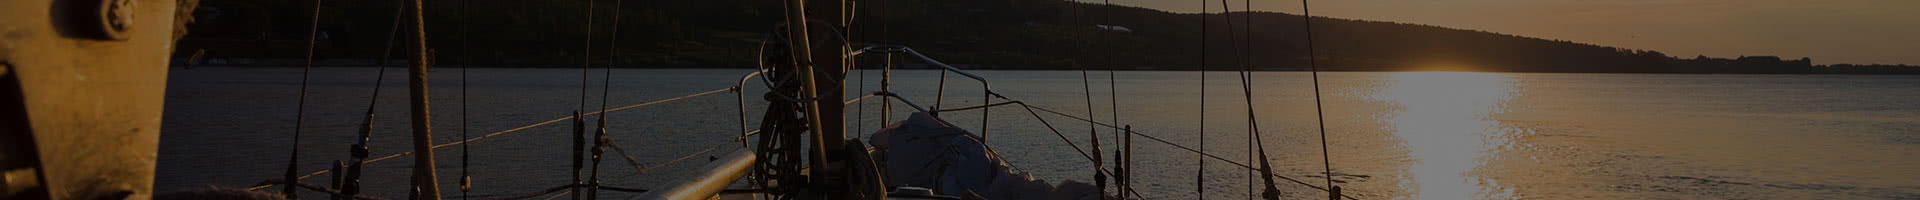
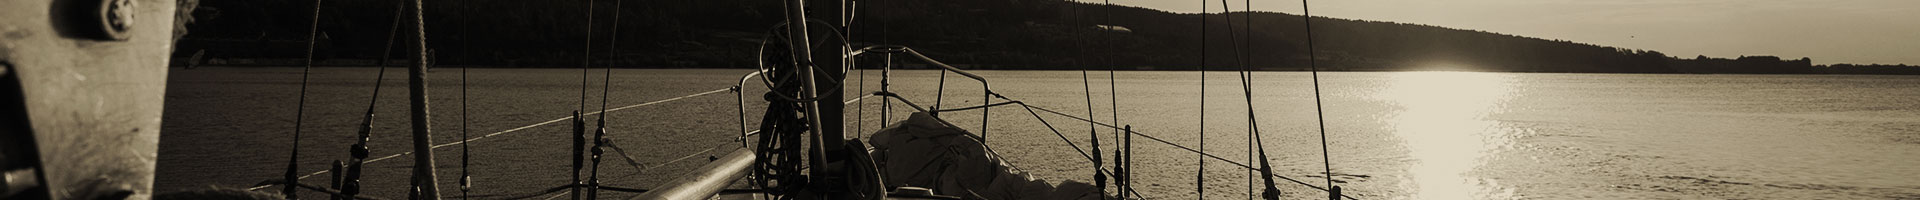
Replaced heading images on inner pages with newly designed images

diff --git a/site/styles/content.less b/site/styles/content.less
@@ -67,16 +67,18 @@ section.home div.copyright.light a {
 h1.styled {
 	padding: 3.5rem;
 	margin: 0;
-	color: @color_active_link;
 	text-align: center;
 	text-transform: uppercase;
+	font-size: 2.5rem;
+	color: @color_title_text;
 
 	background-position: center;
 	background-repeat: no-repeat;
 
 	&.profile {
 		background-color: @color_footer;
-		font-size: 2.5rem;
+		color: @color_active_link;
+		font-family: almoni-light;
 	}
 }
 
@@ -151,6 +153,7 @@ section.profile article:nth-of-type(4) {
 
 section.managment h1.managment {
 	background-image: url(../images/managment_header.jpg);
+	color: @color_title_text;
 }
 
 section.managment article {
@@ -200,6 +203,7 @@ section.managment article h3 {
 section.news h1 {
 	background-image: url(../images/investments.jpg);
 	background-size: cover;
+	color: @color_title_text;
 }
 
 section.news div.features {
